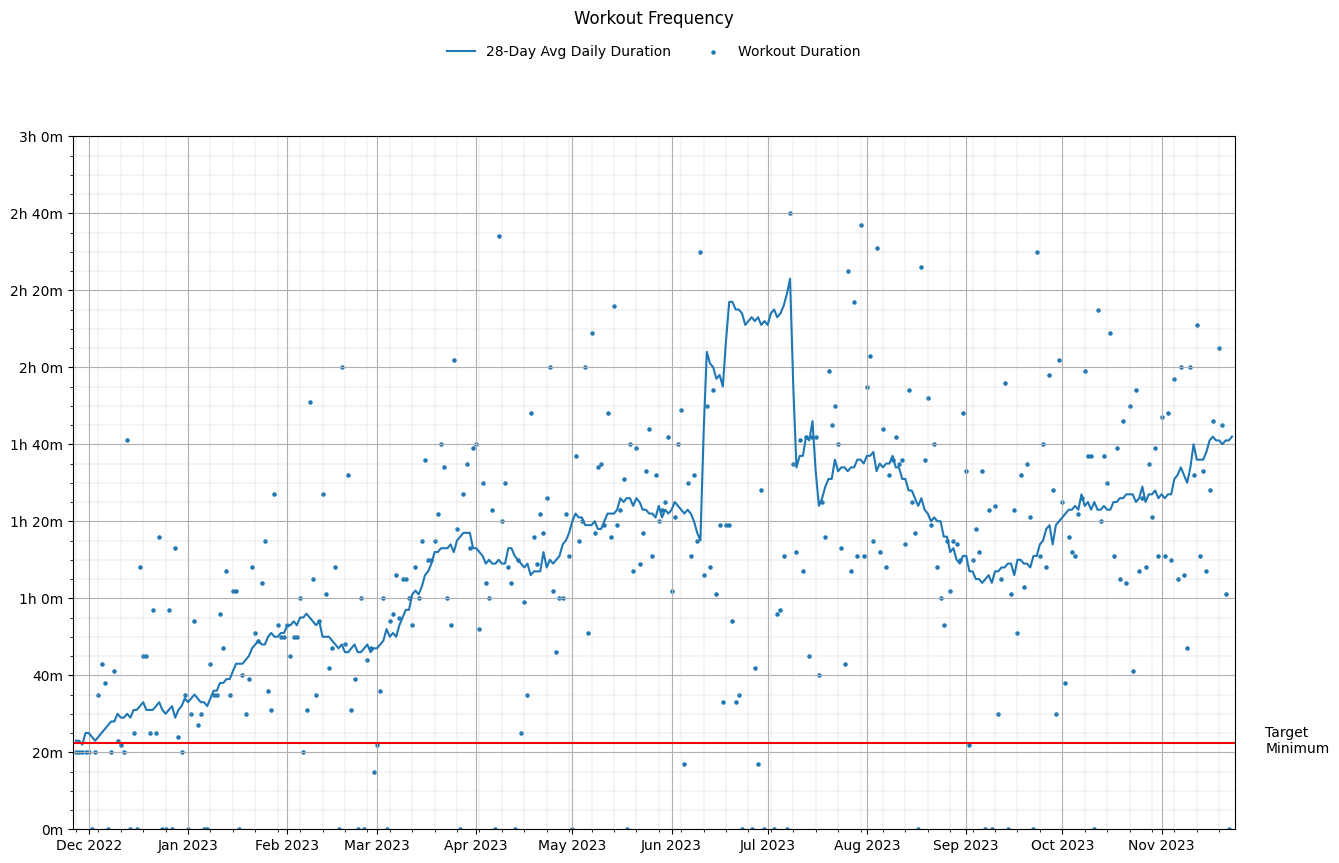
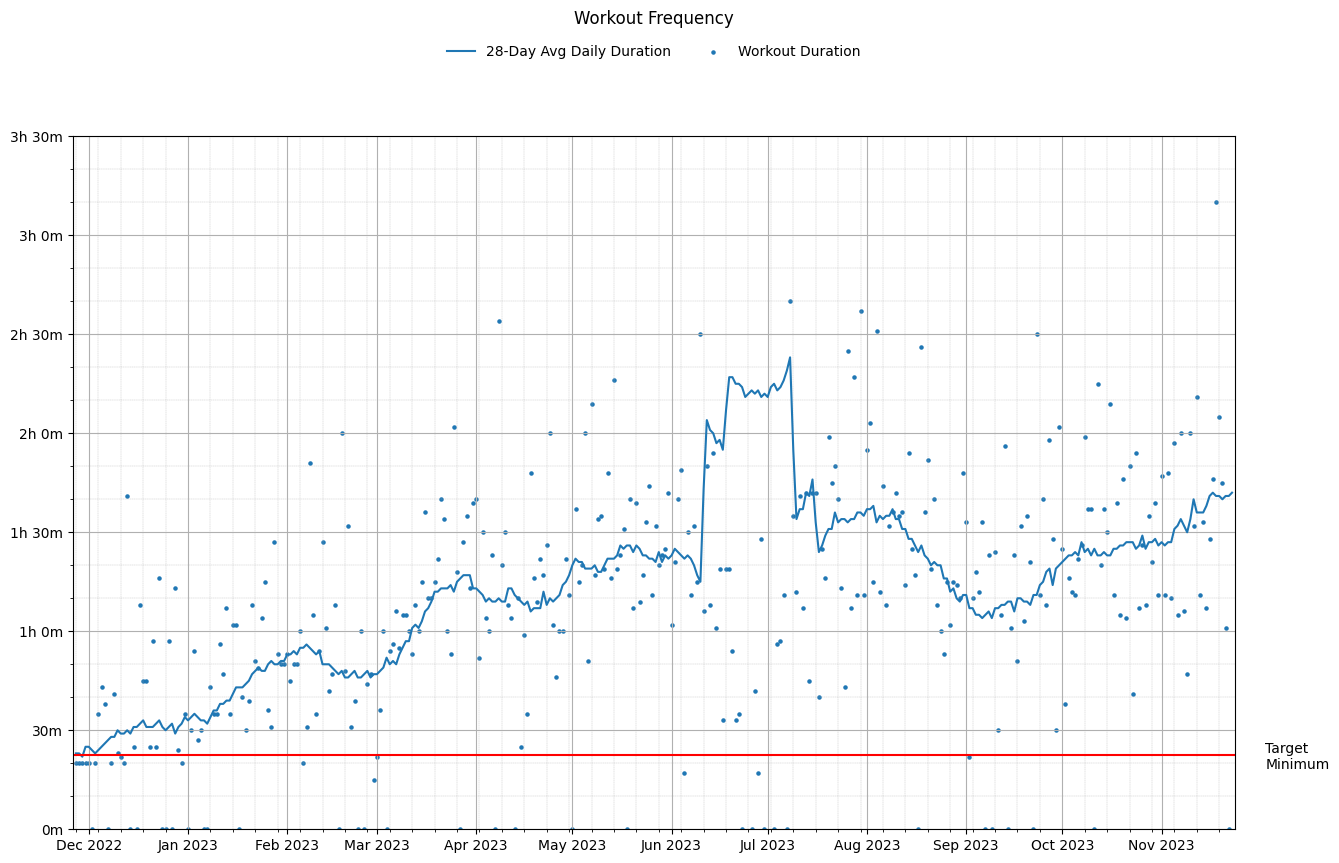
Extended workout frequency y-axis slightly

diff --git a/python/src/exercise_log/vis/__init__.py b/python/src/exercise_log/vis/__init__.py
@@ -37,7 +37,7 @@ def plot_workout_frequency(
 ):
     non_graph_gcf_percent = 0.1
     workout_frequency_bottom_offset = 0.03
-    y_min, y_max = 0, 180  # Setting a 3 hour max since there's a few backpacking days that mess up the scale
+    y_min, y_max = 0, 210  # Setting a 3.5 hour max since there's a few backpacking days that mess up the scale
 
     # Draw the main graph contents and setup the axes
     workout_durations_mins = all_workouts[ColumnName.DURATION] // 60
@@ -63,7 +63,8 @@ def plot_workout_frequency(
     ax = plt.gca()
     configure_x_axis_by_month(all_workouts)
     ax.yaxis.set_major_formatter(ticker.FuncFormatter(convert_mins_to_hour_mins))
-    ax.yaxis.set_minor_locator(ticker.MultipleLocator(5))
+    ax.yaxis.set_major_locator(ticker.MultipleLocator(30))
+    ax.yaxis.set_minor_locator(ticker.MultipleLocator(10))
     ax.set_ylim([y_min, y_max])
     plt.grid(visible=True)
     plt.grid(visible=True, which="minor", linestyle="--", linewidth="0.25")
